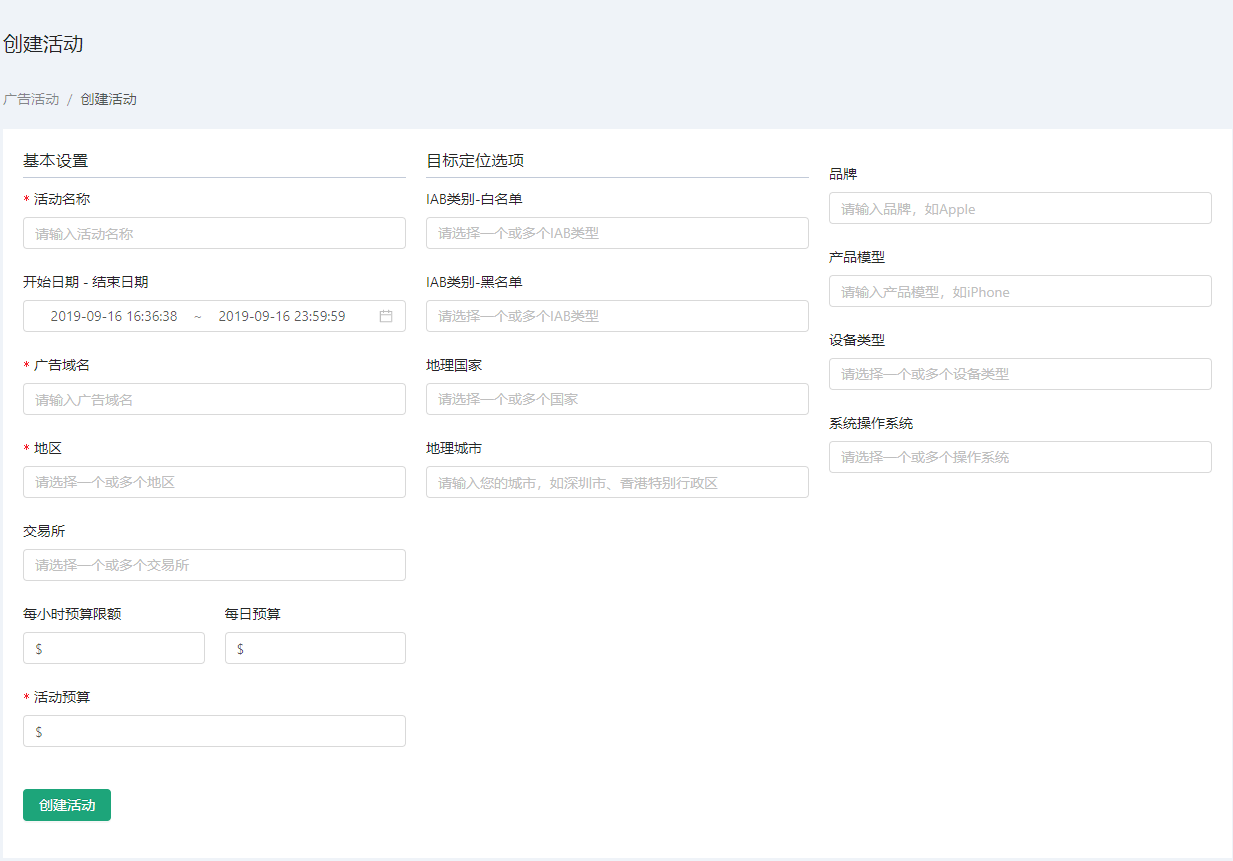
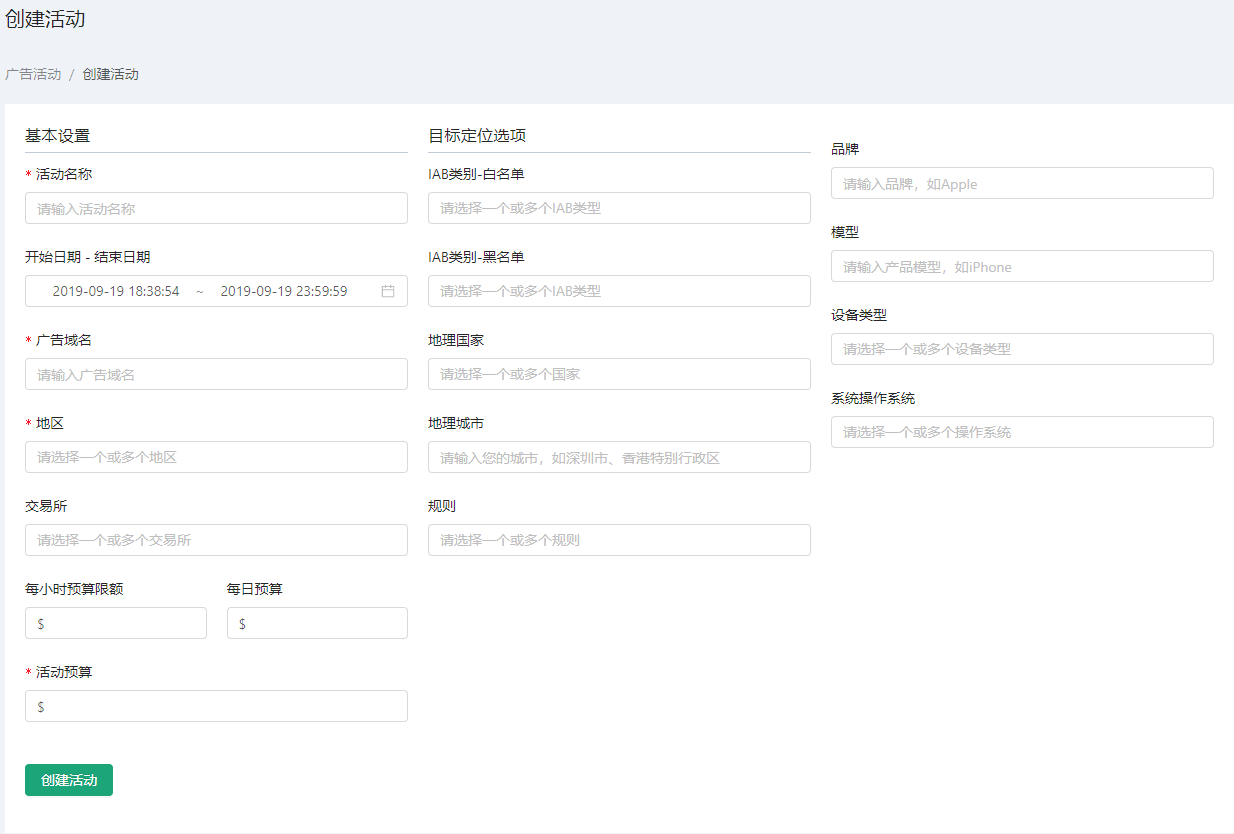
静态文档整合

diff --git a/docs/.vuepress/config.js b/docs/.vuepress/config.js
@@ -63,6 +63,7 @@ module.exports = {
                         {
                             title: 'Dashboard',
                             children: [
+                                ['/UsersManual/Dashboard/Dashboard', 'Dashboard'],
                             ]
                         },
                         {
@@ -140,7 +141,7 @@ module.exports = {
                         {
                             title: '仪表盘',
                             children: [
-
+                                ['/zh/UsersManual/Dashboard/Dashboard', '仪表盘'],
                             ]
                         },
                         {

diff --git a/docs/zh/UsersManual/bidder/CreativeLibrary.md b/docs/zh/UsersManual/bidder/CreativeLibrary.md
@@ -27,10 +27,86 @@
 
 ### 添加图片资源
 
-*    wqwq
+* 我们输入完url链接和图片的文本信息后
+* 点击选择图片按钮，会出现本地图片文件夹
+* 我们选择我们想要添加的图片后再点击开始上传按钮
+* 等待几秒就添加成功了
+
+![UploadPictures](./img/Library/UploadPictures.png)
 
 
 ### 添加视频资源
+
+* 我们输入完url链接后
+* 点击选择视频按钮，会出现本地视频文件夹
+* 我们选择我们想要添加的视频后再点击开始上传按钮
+* 等待几秒就添加成功了
+
+![UploadVideo](./img/Library/UploadVideo.jpg)
+
+* 添加完成后我们可以看到文件夹的资源信息
+![AddFileSuccess](./img/Library/AddFileSuccess.png)
+
+## 操作文件收藏夹列表
+::: tip 文件收藏夹操作
+* 编辑/删除文件信息
+* 编辑/删除文件夹信息
+:::
+
+
+#### 操作1: 编辑/删除文件信息
+
+* 编辑文件信息
+* 点击文件资源信息的编辑图标，出现编辑文件信息的弹框
+
+![EditLibrary](./img/Library/EditLibrary.png)
+
+* 编辑完成后点击保存就可以了
+
+* 删除文件信息
+* 点击文件资源信息的删除图标，出现删除文件信息的弹框
+
+![delLibrary](./img/Library/delLibrary.png)
+
+* 点击确定后就完成删除了
+
+![delSucess](./img/Library/delSucess.png)
+
+#### 操作2: 编辑/删除文件夹信息
+
+* 编辑文件夹信息
+* 点击文件夹的编辑图标，出现编辑文件夹目录的弹框
+* 我们可以更改文件夹的名字
+
+![EditFile](./img/Library/EditFile.png)
+
+* 删除文件夹信息
+* 点击文件夹的删除图标，出现删除文件夹目录的弹框
+* 点击确认即可删除文件夹
+
+![delFlie](./img/Library/delFlie.png)
+
+* 删除完成后，图片文件夹消失
+
+![delFlieSuccess](./img/Library/delFlieSuccess.png)
+
+
+
+
+
+
+
+
+
+
+
+
+
+
+
+
+
+
 
 
 

diff --git a/docs/zh/UsersManual/reports/Alert.md b/docs/zh/UsersManual/reports/Alert.md
@@ -1,0 +1,54 @@
+# 活动智能监测 #
+------------------
+::: tip 活动智能监测
+* 活动智能监测，这个模块我们可以创建以及操作活动智能监测
+* 活动智能监测是对广告活动做一个监测绑定的作用
+* 初始我们是没有任何活动监测的
+* 我们可以通过点击活动监测页面的添加按钮来添加活动智能监测
+:::
+
+初始界面：
+
+![Alert](./img/Alert/Alert.png)
+
+## 添加活动监测
+* 点击活动监测页面的添加按钮来添加活动智能监测
+* 出现添加的弹框
+
+![AddAlert](./img/Alert/AddAlert.jpg)
+
+* 添加过程
+
+![AddAlertGif](./img/Alert/AddAlert.gif)
+
+* 添加完成后活动监测表格会更新
+
+![AddAlertSuccess](./img/Alert/AddAlertSuccess.png)
+
+## 操作活动监测
+::: tip 活动智能监测操作
+* 编辑活动智能监测
+* 删除活动智能监测
+* 查询活动智能监测
+:::
+
+#### 操作1: 编辑活动智能监测
+* 表格操作项点击编辑图标按钮，弹出对应的活动监测详情弹框
+* 编辑完成后点击保存按钮就可以成功编辑
+
+![EditBtn](./img/Alert/EditBtn.jpg)
+
+![EditAlert](./img/Alert/EditAlert.jpg)
+
+#### 操作2: 删除活动智能监测
+* 表格操作项点击删除图标按钮，弹出删除活动监测的弹框
+* 点击确认按钮就可以删除活动监测了
+
+![delBtn](./img/Alert/delBtn.jpg)
+
+![DelAlert](./img/Alert/DelAlert.jpg)
+
+#### 操作3: 查询活动智能监测
+* 输入关键字（关键字不区分大小写），回车，可以对活动智能监测进行查询
+
+![QueryMonitoring](./img/Alert/QueryMonitoring.jpg)

diff --git a/docs/zh/UsersManual/Dashboard/Dashboard.md b/docs/zh/UsersManual/Dashboard/Dashboard.md
@@ -1,0 +1,69 @@
+# 仪表盘 #
+------------------
+::: tip 仪表盘
+* 仪表盘模块，这个模块我们查看总体账号信息
+* 主要分为三部分
+* 主页头部
+* 仪表盘信息
+* 主页页尾
+:::
+
+![Doshboerd](./img/Doshboerd.png)
+
+## 主页头部
+> * 导航菜单栏
+> * 账户信息栏
+> * 个人信息
+> * 语言选择
+> * 管理员
+
+### 导航菜单栏
+![headerMenu](./img/headerMenu.jpg)
+
+### 账户信息栏
+![AccountInfo](./img/AccountInfo.png)
+
+### 个人信息
+
+![PersonalInfo](./img/PersonalInfo.png)
+
+#### 点击我的个人资料会跳转到个人信息页面
+
+![UserInfo](./img/UserInfo.png)
+
+#### 点击退出登录会跳转到登录界面
+
+![Logout](./img/Logout.png)
+
+
+### 语言切换
+
+![LanguageSwitch](./img/LanguageSwitch.png)
+
+### 管理员
+* 管理员权限由高级账号开通权限，普通用户没有
+
+![admin](./img/admin.png)
+
+## 仪表盘信息
+
+![DoshboerdInfo](./img/DoshboerdInfo.png)
+
+::: tip 小提示
+* 余额中的存款资金和交易纪录点击后可以跳转到对应的账单模块和交易历史纪录模块
+* 前五广告活动和广告系列表格的放大镜点击可以跳转到对应的详细报表界面
+:::
+
+![DoshboerdInfo2](./img/DoshboerdInfo2.jpg)
+
+## 主页尾部
+* 主要是展示公司信息和版权信息标注
+* 以及使用条款和隐私政策的
+
+![footer](./img/footer.png)
+
+
+
+
+
+

diff --git a/docs/zh/UsersManual/bidder/Campaigns.md b/docs/zh/UsersManual/bidder/Campaigns.md
@@ -23,6 +23,7 @@
 ::: warning 提示: 创建广告活动列表时会有格式验证
 * 每小时预算限额，每日预算，活动预算必须输入数字
 * 开始日期初始为跳转到创建活动页面的时间点，不能选择其之前的时间
+* 规则选项是对广告活动的限制，比如限制性别，婚姻状况等
 * 带*号的添加项为必填项
 * 其他的选项根据提示信息进行填写
 :::
